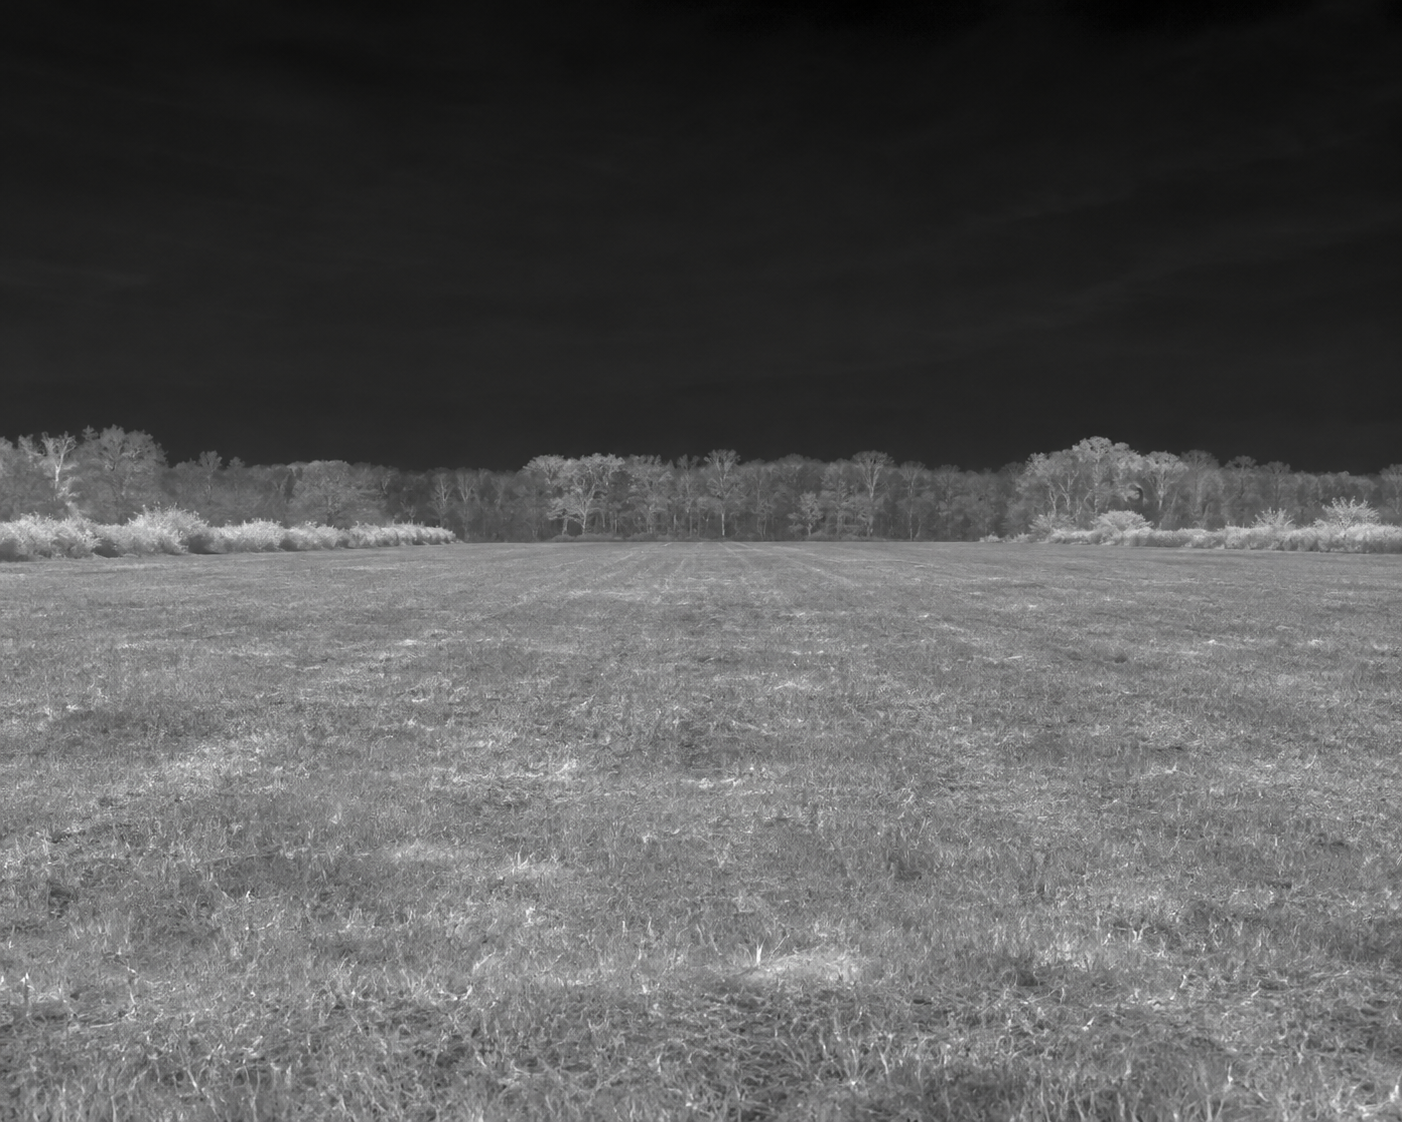
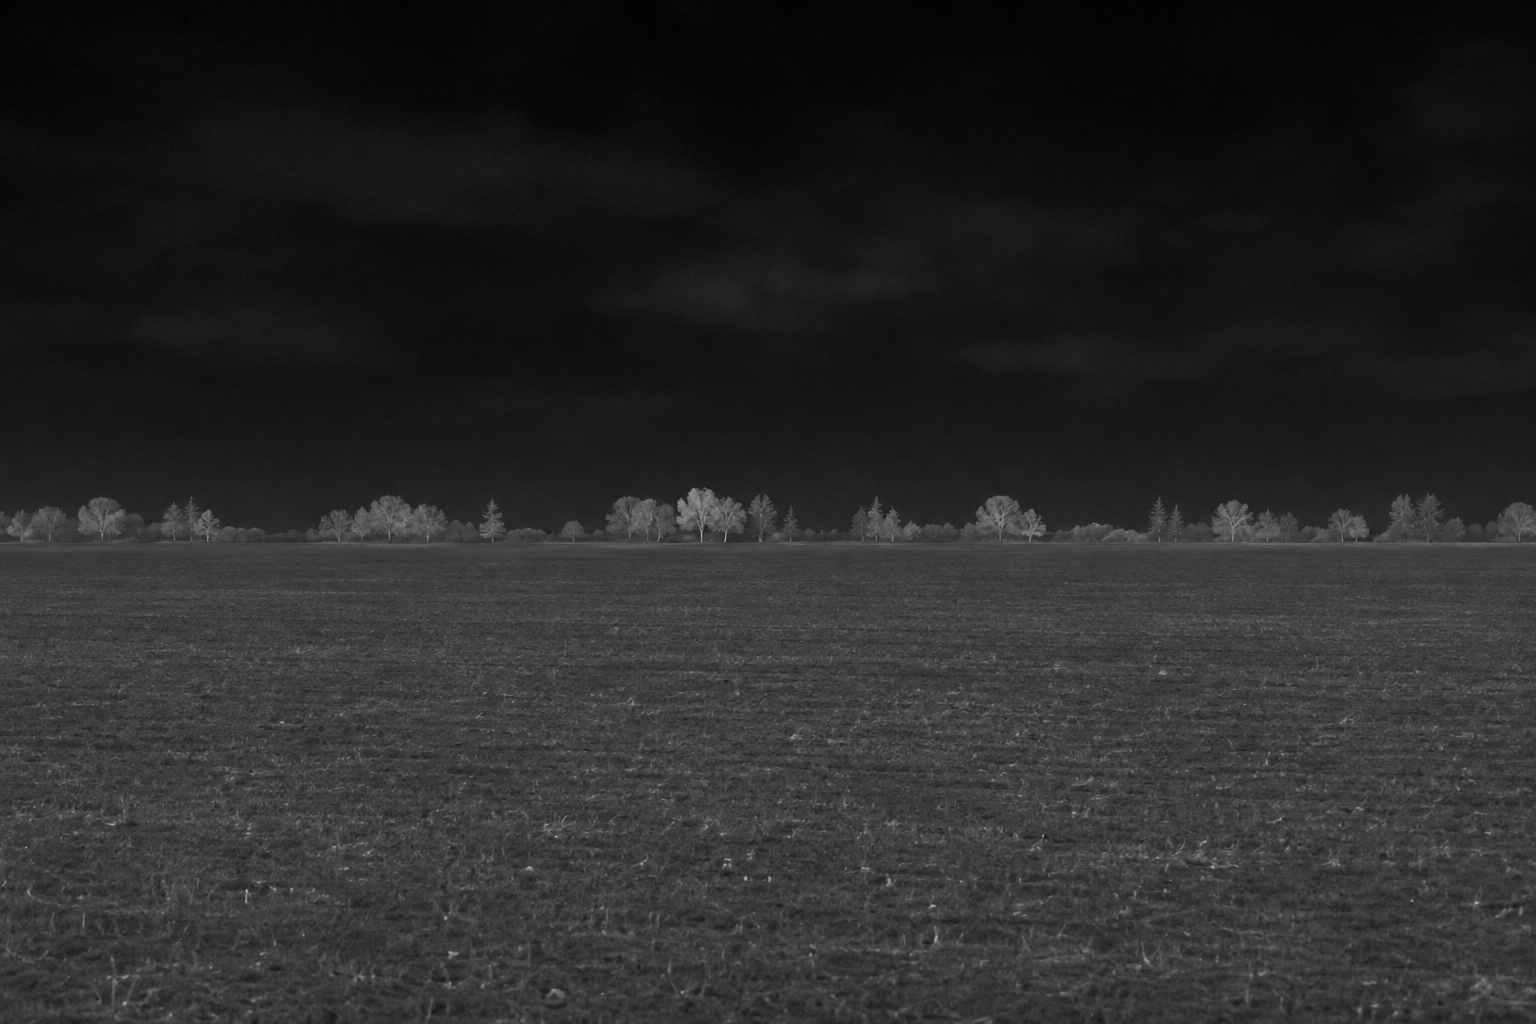
Regenerate thermal backgrounds with calibrated 500 metre tree line

diff --git a/docs/app.js b/docs/app.js
@@ -1,9 +1,9 @@
 const $ = (s) => document.querySelector(s);
 const colors = ['#ff5b2e','#ffb020','#75b8ff','#71d6a6','#d18cff'];
 const sceneBackgrounds = {
-  forest:{src:'assets/background-forest-white-hot.png',focusY:.45},
-  field:{src:'assets/background-field-white-hot.png',focusY:.49},
-  none:{src:null,focusY:.5}
+  forest:{src:'assets/background-forest-white-hot.png',distance:500,treeHeight:18,treePixels:82,basePixelY:574},
+  field:{src:'assets/background-field-white-hot.png',distance:500,treeHeight:16,treePixels:55,basePixelY:542},
+  none:{src:null}
 };
 const animals = [
   {id:'boar',name:'Wildschwein',w:1.5,img:'assets/thermal-animal-wild-boar.png'},
@@ -192,6 +192,17 @@ function sceneObjectX(item,fieldW,v,frame){
   const worldX=item.worldX??(item.x-.5)*2*item.d*Math.tan(humanPerception.ha*Math.PI/360);
   return .5+worldX/fieldW-(frame?.aimX||0)/(frame?frame.w/v.d:1);
 }
+function backgroundPlacement(v,frame,width,height,image,scene){
+  // Calibrate a representative tree in the image, not the image's outer edges.
+  const metresPerPixel=scene.treeHeight/scene.treePixels;
+  const scaleX=metresPerPixel*width/(frame.w*scene.distance/v.d);
+  const scaleY=metresPerPixel*height/(frame.h*scene.distance/v.d);
+  return {
+    x:(width-image.width*scaleX)/2-(frame.aimX||0)/(frame.w/v.d)*width,
+    y:groundY(scene.distance,v,frame)*height-scene.basePixelY*scaleY,
+    w:image.width*scaleX,h:image.height*scaleY,scaleX,scaleY
+  };
+}
 function drawGround(ctx,v,frame,background){
   const {width,height}=ctx.canvas;
   ctx.fillStyle='#080808';ctx.fillRect(0,0,width,height);
@@ -202,14 +213,15 @@ function drawGround(ctx,v,frame,background){
   const ground=ctx.createLinearGradient(0,split,0,Math.max(split+1,height));ground.addColorStop(0,'#353535');ground.addColorStop(1,'#505050');
   ctx.fillStyle=ground;ctx.fillRect(0,split,width,height-split);
   if(background){
-    // Decorative scenery; align its meadow transition with the ground horizon.
-    const focus=background.height*sceneBackgrounds[selectedScene].focusY;
-    const angularScale=Math.tan(humanPerception.ha*Math.PI/360)/(frame.w/(2*v.d));
-    const shiftX=(frame.aimX||0)/(frame.w/v.d)*width;
-    const scale=Math.max(width/background.width*angularScale,(width+2*Math.abs(shiftX))/background.width,Math.max(0,horizon)/focus,Math.max(0,height-horizon)/(background.height-focus));
-    const imageW=background.width*scale,imageH=background.height*scale;
+    const p=backgroundPlacement(v,frame,width,height,background,sceneBackgrounds[selectedScene]);
     ctx.imageSmoothingEnabled=true;ctx.imageSmoothingQuality='high';
-    ctx.drawImage(background,(width-imageW)/2-shiftX,horizon-focus*scale,imageW,imageH);
+    // Extend sky/soil and tile sideways instead of enlarging the 500 m tree line.
+    for(let x=p.x+Math.floor(-p.x/p.w)*p.w;x<width;x+=p.w){
+      if(p.y>0)ctx.drawImage(background,0,0,background.width,1,x,0,p.w,Math.min(height,p.y));
+      const bottom=Math.max(0,p.y+p.h);
+      if(bottom<height)ctx.drawImage(background,0,background.height-64,background.width,64,x,bottom,p.w,height-bottom);
+      ctx.drawImage(background,x,p.y,p.w,p.h);
+    }
     ctx.fillStyle='rgba(0,0,0,.22)';ctx.fillRect(0,0,width,height);
   }
   // Ground lines share the exact same projection as the feet of every object.

diff --git a/docs/index.html b/docs/index.html
@@ -82,7 +82,7 @@
             <button type="button" data-scene="field">Feld</button>
             <button type="button" data-scene="none">Aus</button>
           </div>
-          <p>Warme Bereiche weiß · kalte Bereiche schwarz. Szenenbilder dienen der Atmosphäre; ihr Inhalt ist nicht maßstäblich kalibriert.</p>
+          <p>Warme Bereiche weiß · kalte Bereiche schwarz. Baumsaum im Hintergrund auf 500 m abgestimmt; nahe Bäume und Pflanzen werden separat simuliert.</p>
           <div id="treeControl" class="tree-control">
             <div class="tree-head">
               <label for="treeCount">Baumdichte</label>

diff --git a/docs/assets/background-generation.md b/docs/assets/background-generation.md
@@ -1,0 +1,25 @@
+# Hintergrundbilder – 500-m-Baumsaum
+
+Erzeugt am 13.11.2026 mit dem eingebauten Bildgenerierungswerkzeug (kein CLI/API-Fallback). Beide Dateien ersetzen die bisherigen Hintergründe.
+
+| Datei | Größe | Bodenlinie im Quellbild | Referenzhöhe | Referenz in Quellpixeln | Entfernung |
+| --- | --- | --- | --- | --- | --- |
+| background-forest-white-hot.png | 1536 × 1024 | y = 574 | 18 m | 82 px | 500 m |
+| background-field-white-hot.png | 1536 × 1024 | y = 542 | 16 m | 55 px | 500 m |
+
+Die Bildgenerierung liefert illustrative Silhouetten. Die Referenzpunkte wurden am erzeugten Bild festgelegt; die Anwendung skaliert diese Referenzhöhen und verankert ihre Bodenlinie geometrisch. Einzelne Bäume variieren. Die Referenzpunkte müssen bei einem Bildaustausch neu bestimmt werden. Kein Cover-Zoom: Texturwiederholung und ergänzte Himmel-/Bodenbereiche erhalten den Maßstab auch bei breiten Bildausschnitten.
+
+## Wald – verwendeter Prompt
+
+Use case: scientific-educational / photorealistic-natural. Asset: replacement background-forest-white-hot.png for a thermal camera field-of-view simulator. Generate a NEW landscape image, ideally exactly 1536x1024, 3:2. Entirely monochrome realistic long-wave infrared WHITE HOT night observation: dark almost black cool sky, mid-dark textured meadow foreground, slightly warmer gray far forest. Camera height 1.60 m, level optical axis, horizontal FOV39.6 degrees vertical FOV27 degrees. Main requirement is physically small distant trees, ALL background tree trunks stand on a forest boundary 500 metres from observer, with realistic 14-22 metre tree heights. At image height1024 pixels, the ground horizon is y512, distant tree feet at y519 (50.7% height), tree tops mostly y425-460. Therefore the complete distant tree canopy occupies ONLY 6-9% of image height above the middle horizon, not a tall forest wall! Dense irregular mixed conifer and deciduous forest line spanning the frame width, natural gaps and varied crowns, small unresolved distant foliage, no individually sharp leaves. Foreground is an open broad gently textured low meadow extending from bottom frame to the distant forest edge; NO nearby trees, NO large trees flanking frame, NO tunnel or forest path, NO shrubs or crop clumps in foreground because those are simulated separately. The upper approx42% of frame is unobstructed dark night sky. Forest trees remain the SAME small scale at left and right edges as at centre. Natural thermal tonal detail with restrained contrast, no visible-light color or glowing eyes. No animals, no people, no text, no scale markings, no crosshair, no border, no split panels, no vignette. This is a full background texture, not a mockup. Critical: resist making scenic large trees; 500m tree line must be a narrow distant band near the image middle.
+
+## Feld – verwendeter Prompt
+
+Use case: scientific-educational / photorealistic-natural. Asset type: new background-field-white-hot.png for thermal FOV simulator. Produce a monochrome WHITE-HOT long-wave infrared night landscape, ideally exactly1536x1024 landscape3:2. An open flat harvested agricultural field with fine subdued ground texture and a distant loose line of European trees at precisely500m distance, ordinary 12-20m high trees (NOT towering cinematic trees). Camera eyeheight1.6m, level view, angular field39.6deg horizontal27deg vertical. Composition calibration target: at1024px imageheight put distant tree feet near y519 (50.7% fromtop); small tree tops at y440-470, making each mature tree ONLY50-85pixels tall, about5-8% of fullframeheight. They form a narrow irregular distant strip around the middle of the image. Sky almost black with subtle thermal cloud variation above skyline. Entire lower half is uninterrupted low textured soil/short stubble plane receding toward the 500m tree line. Sparse hedgerow gaps distinguish FIELD from dense forest; a few small rounded distant deciduous crowns and narrow conifers, no mountain backdrop. All background trees are at the far500m boundary, never nearby. Tree size uniform in perspective across fullframewidth, no large edge trees. No foreground bushes, NO detailed crop plants, NO near trees, NO animals, NO people, NO structures, NO graphic overlays, NO numbers or text, NO reticle, no scale, no border. Maincritical requirement: realistically SMALL distant trees at horizon, not huge forest-wall occupying upperhalf. Restrained infrared sensor grain, grayscale black/darkgray ground and mediumgray trees, moderately realistic atmospheric softness at500m. This is a single fullframe environment texture, not a screenshot, not a collage.
+
+## Wald – ergänzender Bearbeitungsprompt für seitlichen Bewuchs
+
+Der zentrale 500-m-Baumsaum und seine Referenzpunkte bleiben erhalten. Der zusätzliche nähere Randbewuchs dient der Atmosphäre und ist nicht Teil der 500-m-Höhenreferenz.
+
+Use case: precise-object-edit. Edit target: the supplied thermal forest background. Keep image exactly1536x1024, black-and-gray WHITE HOT infrared appearance. Preserve unchanged the distant central forest tree line: its trunk bases at y574 and representative tree heights approx82px, describing ordinary18m trees at500m distance. Preserve the middle60% of image composition and distant tree scale, central meadow, horizon and sky behind it. Requested change: add realistic NEARER woodland vegetation ONLY along both side margins: left outer20% and right outer20%. These sides should feel like standing in a broad forest opening: a few irregular deciduous/conifer trunks and foliage at realistic50-120m distances, some shrubs and low undergrowth in outer lower corners. They may naturally crop at extreme edges, with varied heights and asymmetrical clusters. Mid-distance trees at80-120m should have crowns roughly250-450px high; a nearest slender side trunk may partly crop at top, but do not turn image into a close-up tree tunnel. Keep enough foreground meadow through the centre to overlay simulated animals. The distant trees in the central horizon remain SMALL, approx65-90px height, and must not be enlarged or shifted. Do not fill centre with near trees. Do not cover centre500m tree line with extra bushes. Side vegetation in the same moderate gray thermal tones, natural soft foliage, not bright white glowing. No animals, no people, no text, no crosshair, no vignette. Ground feet and sky match existing perspective, no mountains. Preserve central horizon pixel positions very carefully. Existing image is the edit target, not merely a style reference.
+

diff --git a/README.md b/README.md
@@ -80,8 +80,15 @@ Gerätebeschnitt, Wetter, Beugung und gerätespezifische Bildverarbeitung sind n
 modelliert. Die NETD-Vorschau legt reproduzierbares Rauschen auf das gewählte
 Sensorbild. Ihre Stärke ist illustrativ und nicht temperaturkalibriert; ohne
 radiometrische Szenendaten kann sie keine reale Erkennungsleistung vorhersagen.
-Die Wald- und Feldbilder dienen als atmosphärischer Hintergrund ohne kalibrierte
-Objektgrößen. Die darüberliegenden Tiere, Bäume und Feldpflanzen haben bekannte
+Die neu generierten Wald- und Feldbilder enthalten im Zentrum einen entfernten
+Baumsaum; das Waldbild zeigt zusätzlich näheren Bewuchs am linken und rechten Rand.
+Referenzbäume im zentralen Baumsaum werden auf 18 m Höhe im Wald (82 Quellpixel) bzw. 16 m im
+Feld (55 Quellpixel) in 500 m Entfernung skaliert. Die Stammfüße liegen auf derselben
+projizierten 500-m-Bodenlinie wie die dynamischen Objekte. Größere Bildausschnitte
+werden durch seitliche Wiederholung und Ergänzung von Himmel/Boden gefüllt, statt
+den Baumsaum zu vergrößern. Die übrigen Bilddetails bleiben illustrativ.
+Prompts und Referenzpunkte: [Hintergrundgenerierung](docs/assets/background-generation.md).
+Die darüberliegenden Tiere, Bäume und Feldpflanzen haben bekannte
 Beispielabmessungen und perspektivisch konsistente Positionen. Verdeckung nutzt
 die Transparenzmasken und die Tiefenreihenfolge der ebenen Objektgrafiken.
 
